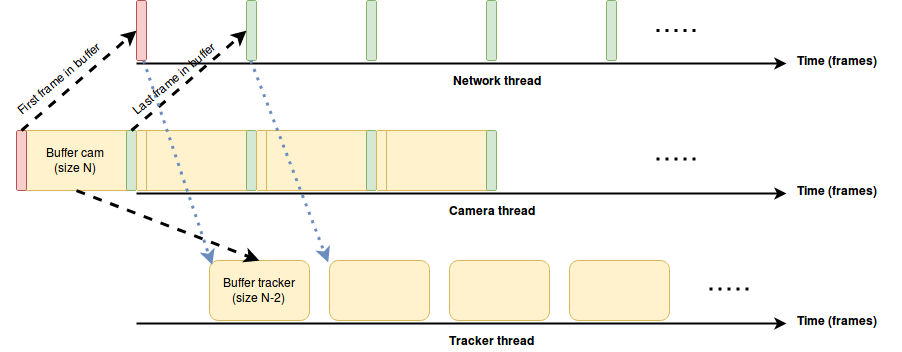
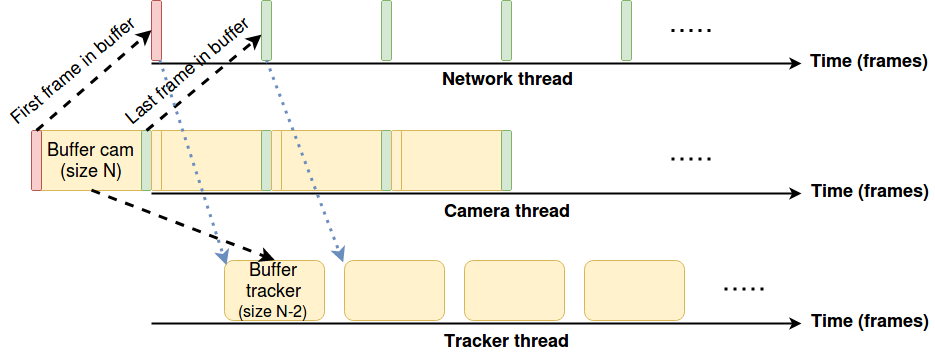
Changed: chapter4 feedback

diff --git a/latex/4_dl_object_tracker.tex b/latex/4_dl_object_tracker.tex
@@ -1,20 +1,20 @@
 \chapter{Multiobject tracking using deep learning and tracking by detection}
-In this chapter, the solution obtained for solving the multiobject tracking problem using deep learning and tracking-by-detection is explained.
+In this chapter, the solution developed for solving the multiobject visual tracking problem using deep learning and tracking-by-detection is explained.
 
-\section{Design overview}
-The main contribution of this work is to develop a tracking algorithm capable of tracking different types of objects using deep learning techniques. To achieve this task the selected tracking methodology is the tracking by detection. Our method combines detections coming from an object detection neural network with tracking techniques. With this, the idea is to give the final system a balance between speed and accuracy. The detections from the neural networks are usually slower than a pure tracking but more accuracted whereas the tracker results are often quickly obtained but they are slightly more inaccurated.\\
-The module architecture of the system is summarized in the following diagram (Figure \ref{fig:general}).
+\section{Design}
+The main contribution of this work is the development of a visual tracking algorithm capable of tracking different types of objects using deep learning techniques. To achieve this task the selected tracking methodology is the tracking by detection. Our method combines detections coming from an object detection neural network with classic visual tracking techniques. With this combination, the final system provides a balance between speed and accuracy. The detections from the neural networks are usually slower than a pure tracking but more accurate and robust whereas the tracker results are often quick but slightly more inaccurate.\\
+A software application, named \textit{dl-objecttracker}, has been designed and developed which implements the proposed multiobject visual tracking algorithm. The module architecture of this application is summarized in the diagram of Figure \ref{fig:general}.
 \begin{figure}[H]
 \begin{center}
 \includegraphics[scale=0.4]{figures/general.png}
-\caption{modular architecture}
+\caption{Modular architecture of the dl-objecttracker application}
 \label{fig:general}
 \end{center}
 \end{figure}
 
-As it can be seen the system is built in a modularized way with different threads. There are 4 threads: Camera, GUI, Network and Tracker. All of them are going to be discussed more in deep on its respective sections of the chapter but the general workflow of the system is going to be explained here (Figure \ref{fig:update_cam}).\\
-First, the camera thread provides the images or frames to the rest of the threads, i.e.\ the input to the system. The output of the system can be provided using a mechanism of \textit{logging} of the results per frame or using the GUI. If the GUI is configured to show the graphical interface (\textit{on}), the results are shown on the screen. But if the graphical interface is not configured (\textit{off}) the results are saved in JPG files.\\ The core of the computing is divided in the Network thread and the Tracker thread. This Tracker has a buffer of frames of different size coming from the Camera to work on \textit{delayed real-time}. So, when the first frame is available it is given to the Network thread which starts doing the inference, i.e.\, it starts detecting objects. Meanwhile, the buffer is accumulating the incoming frames from the Camera until the detection from the Network comes.\\
-When the detection is available, the Tracker thread starts the tracking of the detected objects in the buffer of frames. The last frame in the buffer is used to feed again the Network allowing for a synchronism between the detections and the tracking in the frames. This temporal process can be observed more clearly in the Figure \ref{fig:buffer}.
+As it can be seen the system is built in a modularized way with different threads. There are four threads: Camera, GUI, Network and Tracker. All of them are going to be discussed more in depth on its corresponding sections of this chapter but the general workflow of the system is going to be explained here (Figure \ref{fig:update_cam}).\\
+First, the camera thread provides the images or frames to the rest of the threads, i.e.\ it is in charge of the input to the system. The output of the system can be provided using a mechanism of \textit{logging} of the results per frame or using the GUI. If the GUI is configured to show the graphical interface (\textit{on}), the results are shown on the screen. But if the graphical interface is not configured (\textit{off}) the results are saved in JPG files.\\ The core of the computing is divided into the Network thread and the Tracker thread. This Tracker has a buffer of frames of different size coming from the Camera to work on \textit{delayed real-time}. So, when the first frame is available it is given to the Network thread which starts doing the inference, i.e.\, it starts detecting objects. Meanwhile, the buffer is accumulating the incoming frames from the Camera until the detection from the Network comes.\\
+When the neural detection is available, the Tracker thread starts the tracking of the detected objects inside the buffer of frames. The last frame in the buffer is used to feed again the Network allowing for a synchronism between the neural detections and the tracking in the frames. This timing can be observed more clearly in the Figure \ref{fig:buffer}.
 \begin{figure}[H]
 \begin{center}
 \includegraphics[scale=0.4]{figures/buffer.png}
@@ -22,61 +22,61 @@ When the detection is available, the Tracker thread starts the tracking of the d
 \label{fig:buffer}
 \end{center}
 \end{figure}
-It can be seen that given a complete buffer in Camera of size \textit{N}, the first frame is assigned to the Network and, when this frame is processed, a buffer of size \textit{N-2} is assigned to the Tracker to be processed. The last frame of the given buffer is passed to the Network again. This iterative mechanism continues in time ensuring that no frames are lost. After the first iteration, the length of the size passed to the Tracker is \textit{N-1}. The application has always a delay in frames of 1 buffer (\textit{delayed real-time}).
-\\As commented before, the buffer changes its size in every iteration but we can not allow the buffer to increase or decrease this size in an uncontrolled way because that will end blocking the system. If the buffer is too big, the tracking will take more time and the neural network will finish before the tracking is done. This is, the Network is underused. In the other side, if the buffer is too small the Tracker will end its work before the inference is done in the Network so the Tracker will have to wait much more time to the Network to finish (Tracker underused). For these reasons a balance is needed.\\
-The neural network inference time is approximately the same time so this time is taken as fixed. Then, the only part of this processing core where we can change is on the Tracker side. The obtained solution consists of a Tracker which constantly measures its frame rate (FPS) allowing it to slow down or speed up depending on this measurement.\\
+It can be seen that given a complete buffer in Camera of size \textit{N}, the first frame is assigned to the Network and, when this frame is processed, a buffer of size \textit{N-2} is assigned to the Tracker to be processed. The last frame of the given buffer is passed to the Network again. This iterative mechanism continues in time ensuring that no frame is lost or ignored while the neural processing takes place at its own pace, which can be much slower than the input frame rate. After the first iteration, the length of the size passed to the Tracker is \textit{N-1}. The application has always a delay in output frames of 1 buffer (\textit{delayed real-time}).
+\\As commented before, the buffer changes its size in every iteration but we can not allow the buffer to increase or decrease this size in an uncontrolled way because that will end blocking the application. If the buffer is too big, the tracking will take more time and the neural network will finish before the tracking is done. This is, the Network is underused. In the other side, if the buffer is too small the Tracker will end its work before the inference is done in the Network so the Tracker will have to wait much more time to the Network to finish (Tracker underused). For these reasons a balance is needed.\\
+The neural network inference time is approximately always the same so this time is taken as reference. Then, the only part of this processing core where we can change is on the Tracker side. The obtained solution consists of a Tracker which constantly measures its frame rate (FPS) allowing it to slow down or speed up depending on the Tracker processing speed.\\
 Once all the frames have been processed the Network and Tracker thread stop. After that, the results are logged into the YML files (a file for each frame) and the user can close the application.\\
-The general behavior of the application when running video sequences or raw frames was presented. Nevertheless, it can also handle live stream videos coming from local cameras connected. In this case, the logging of the results is not done but the tracking by detection scheme is the same.\\
+The general behavior of the application when running video sequences or raw frames was presented. Nevertheless, it can also handle live stream videos coming from local cameras connected. In this case, the logging of the results is not performed but the tracking by detection scheme is the same.\\
 The ``main" is done in the \texttt{update} function of the Camera which is continuously called by the Camera thread. As the system architecture is based in multiple threads, the synchronism between them is crucial. Because of this, the control of the application is done taking into account the synchronism between all the threads, their internal status and variables.
 \begin{figure}[H]
 \begin{center}
-\includegraphics[scale=0.3]{figures/update_camera.png}
+\includegraphics[scale=0.33]{figures/update_camera.png}
 \caption{The control flow}
 \label{fig:update_cam}
 \end{center}
 \end{figure} 
 
-As commented in the chapter 2, the application is configurable using an YML file (\textit{objecttracker.yml}). For the instructions on how to run the application please refer to the wiki of the project (see \ref{Methodology}).
-\\In the next sections, the implementation of each thread of the system is explained, including the available configuration modifications.\\
+The application is configurable using an YML file (\textit{objecttracker.yml}). For the instructions on how to run the application please refer to the wiki of the project (see \ref{Methodology}).
+\\In the next sections the implementation of each thread of the system is explained, including the available configuration modifications.\\
 
-\section{Video source}
-The Camera module provides the input images to the rest of the system. This images can be obtained using four different sources:
+\section{Video source module}
+The Camera module provides the input images to the rest of the system. These images can be obtained using four different sources:
 \begin{itemize}
     \item \textbf{Local camera (with OpenCV)}: the Camera can read from a local camera using the OpenCV routine \texttt{VideoCapture} indicating the device number of the camera.
-    \item \textbf{Local camera (with ROS)}: the Camera can use ROS to read from the camera device. In order to do so, the user needs to launch a terminal and type \texttt{roslaunch usb\_cam.launch}. This will publish a ROS topic \texttt{/usb\_cam/image\_raw} that can be subscribed by the Camera module and it will start reading frames from the device. For more information about the launching process please refer to my wiki (\ref{using_ros}).
-    \item \textbf{Local video}: to read from a local video it is also used the OpenCV routine \texttt{VideoCapture} but indicating the video path.
-\item \textbf{Local images}: similarly the local images path needs to be passed to \texttt{VideoCapture}. This source is very useful because most of the datasets are provided as sequences of frames instead of videos. And it can avoid problems such as creating sequences of videos with the wrong duration or frame rate.
+    \item \textbf{Local camera (with ROS)}: the Camera can use ROS to read from the camera device. In order to do so, the user needs to launch a terminal and type \texttt{roslaunch usb\_cam.launch}. This will publish a ROS topic \texttt{/usb\_cam/image\_raw} that can be subscribed by the Camera module and it will start reading frames from the device. For more information about the launching process please refer to the wiki of the project\footnote{\href{https://jderobot.org/Arodriguez-tfm\#Week_24:_Introducing_ROS}{Wiki: ROS}}.
+    \item \textbf{Local video}: to read from a local video the OpenCV routine \texttt{VideoCapture} is also used but indicating the video path in the configuration file.
+\item \textbf{Local image files}: the path containing all the image files is required to be passed to \texttt{VideoCapture}. This video source is very useful because most of the datasets are provided as sequences of frames instead of videos. And it can avoid problems such as creating sequences of videos with the wrong duration or frame rate.
 \end{itemize}
-The Camera thread source and options can be modified at the configuration file. The source is selected at \texttt{ObjectTracker->Source}. After that the user needs to indicate the device number \texttt{ObjectTracker->Local->DeviceNo} if using a local camera with OpenCV, the video path \texttt{ObjectTracker->Video->Path} if using a local video or the images path \texttt{ObjectTracker->Images->Path} when using local images.\\
+The Camera thread source and options can be modified at the configuration file. The source is selected at \texttt{ObjectTracker->Source}. After that the user is required to indicate the device number \texttt{ObjectTracker->Local->DeviceNo} if using a local camera with OpenCV, the video path \texttt{ObjectTracker->Video->Path} if using a local video or the images path \texttt{ObjectTracker->Images->Path} when using local image files.\\
 The user needs to modify the \texttt{usb\_cam.launch} to change the Camera configuration when using ROS.\\
-Before being sent to other threads the image is rescaled according to the neural network input size. It continues all the process with this size. When the final results are obtained this is taken into account to rescale the coordinates of the detections or trackers with respect to the original image size.\\
-Apart from providing images the Camera thread also controls the flow of the application. This is done in this way because the application offers the option of not having GUI. In the first versions of the project the control of the application (the ``main") was implemented in the GUI thread but when the no-GUI option was added this was moved to the Camera thread.\\
+Before being sent to other threads the image is rescaled according to the neural network input size. It continues all the process with this standard size. When the final results are obtained this scaling is taken into account to rescale again the coordinates of the detections or trackers with respect to the original image size.\\
+Apart from providing images the Camera thread also controls the flow of the application. It has been implemented in this way because the application offers the option of not having GUI. In the first versions of the project the control of the application (the ``main") was implemented in the GUI thread but when the no-GUI option was added this was moved to the Camera thread.\\
 
-\section{GUI}
-The GUI module provides the interface with the user and, as commented before, is optional. It was implemented using the tools provided by PyQt5, in concrete with the packages \textit{QtGui, QtCore} and \textit{QtWidgets}.\\
-The graphical interface has four windows and two buttons. The top-left window shows the input frames in real-time while the top-right one shows the final results. The intermediate results obtained from the Network and the Tracker will be provided at the bottom. The application with GUI has two modes with its respective buttons: ``run continuous" and ``run now". In the first one, the application runs continuously until it finishes the process (the process finishes depending on the image source). In the second one, the user can push the \textit{Run now} button to make the Network detect on the current frame and continue the tracking from that frame towards.
+\section{GUI module}
+The GUI module provides the interface with the human user and, as commented before, is optional. It was implemented using the tools provided by PyQt5, in particular with the packages \textit{QtGui, QtCore} and \textit{QtWidgets}.\\
+The graphical interface has four windows and two buttons. The top-left window shows the input frames in real-time while the top-right one shows the final results. The intermediate results obtained from the Network and the Tracker will be provided at the bottom part of the display. The application with GUI has two modes with its respective buttons: ``run continuous" and ``run now". In the first one, the application runs continuously until it finishes the processing (the program finishes depending on the image source). In the second one, the user can push the \textit{Run now} button to make a single Network detection on the current frame and to continue the tracking from that frame onward.
 \begin{figure}[H]
 \begin{center}
-\includegraphics[scale=0.3]{figures/gui.png}
-\caption{The graphical user interface}
+\includegraphics[scale=0.35]{figures/gui.png}
+\caption{The graphical user interface of the dl-objecttracker application}
 \label{fig:gui}
 \end{center}
 \end{figure} 
-\section{Neural Network}\label{neural_networks}
-The Network module is tasked with the object detections in the images which are feeding the Tracker on every iteration. It supports Tensorflow and Keras object detection models. The Tensorflow models can be obtained from the Tensorflow detection model zoo\footnote{\href {https://github.com/tensorflow/models/blob/master/research/object_detection/g3doc/detection_model_zoo.md}{Tensorflow detection model zoo}} and include SSD and R-CNN detectors. The Keras models are limited to SSD architectures and it can be obtained from this set\footnote{\href {https://github.com/pierluigiferrari/ssd_keras#download-the-original-trained-model-weights}{Keras models}}.\\
-The datasets on which the model was trained need to be specified to assign the labels to the objects. The supported labels include the VOC, COCO, KITTI, OID and PET datasets. As it ocurred with the Camera module, the Network module has configurable options available in \textit{objecttracker.yml}:
+\section{Neural Network module}\label{neural_networks}
+The Network module is tasked with the object detections in the images, which feed the Tracker on every iteration. It supports Tensorflow and Keras object detection models. The Tensorflow models can be obtained from the Tensorflow detection model zoo\footnote{\href {https://github.com/tensorflow/models/blob/master/research/object_detection/g3doc/detection_model_zoo.md}{Tensorflow detection model zoo}} and include SSD and R-CNN detectors. The Keras models are limited to SSD architectures and it can be obtained from this set\footnote{\href {https://github.com/pierluigiferrari/ssd_keras#download-the-original-trained-model-weights}{Keras models}}.\\
+The datasets on which the model was trained need to be specified to assign the labels to the objects. The supported labels include the VOC, COCO, KITTI, OID and PET datasets.\\ As it ocurred with the Camera module, the Network module has configurable options available in \textit{objecttracker.yml}:
 \begin{itemize}
     \item \texttt{Framework}: Keras or Tensorflow
     \item \texttt{Model}: the model file
     \item \texttt{Dataset}: VOC/COCO/KITTI/OID/PET
-    \item \texttt{Input size}: this input size can be modified depending on the selected model. Some models does not allow to change the input image size
+    \item \texttt{Input size}: this input size can be modified depending on the selected model. Some models do not allow to change the input image size
     \item \texttt{Confidence}: the confidence threshold for the detections obtained. If a detection obtains a confidence value below that detection is discarded
 \end{itemize}
 The Network thread basically receives an image (previously resized) and performs the inference. As a result it outputs the detections obtained in the image (if any) and it draws these detections in form of bounding boxes containing also the label and the confidence value.\\
 The logging of the Network and Tracker results are optional and it can be changed at the YML configuration file in \texttt{ObjectTracker->Logger->Status}. These results are logged in the \texttt{logNetwork} and \texttt{logTracker} functions respectively.\\
 
 \subsection{Tensorflow models} \label{tf_models}
-These models are obtained from the Tensorflow detection model zoo which provides models for inference out-of-the-box, i.e.\ to be directly used. From the models available only some of them were tested for its use in the project. The pre-trained models used were trained on the COCO dataset because the classes available in this dataset were considered enough for the type of objects that can be seen in the tracking sequences used. In the next table, the Tensorflow models performance can be seen:
+These models are obtained from the Tensorflow detection model zoo which provides models for inference out-of-the-box, i.e.\ to be directly used. Among the available models only some of them were tested for its use in the project. The pre-trained models used were trained on the COCO dataset because the available classes in this dataset were considered enough for the type of objects that can be seen in the tracking sequences used.\\ In the table \ref{tab:tf_models}, the Tensorflow models performance can be seen:
 \begin{table}[H]
 \begin{center}
 \begin{tabular}{|c|c|c|}
@@ -87,16 +87,17 @@ Model name                                 & Speed (FPS) & COCO mAP \\ \hline
 \textbf{mask\_rcnn\_inception\_v2\_coco}   & 13         & 25       \\ \hline
 \end{tabular}
 \end{center}
-\caption{Tensorflow models performance (from \href{https://github.com/tensorflow/models/blob/master/research/object_detection/g3doc/detection_model_zoo.md#coco-trained-models}{Tensorflow detection model zoo}). Note: the COCO mAP numbers here are evaluated on COCO 14 minival set using the \href{http://cocodataset.org/#detection-eval}{MSCOCO evaluation protocol}}
+\caption{Tensorflow models performance (from \href{https://github.com/tensorflow/models/blob/master/research/object_detection/g3doc/detection_model_zoo.md#coco-trained-models}{Tensorflow detection model zoo})}
+\label{tab:tf_models}
 \end{table}
-The reported running time in ms is done for 600x600 images (including all pre and post-processing). The AP scores are averaged over multiple Intersection over Union (IoU) values as the MSCOCO evaluation protocol indicates. As the authors say, ``these timings depend highly on one's specific hardware configuration (performed using an Nvidia GeForce GTX TITAN X card) and should be treated more as relative timings in many cases". However, some characteristics of each model can be extracted in terms of speed and accuracy. As expected, the R-CNN models achieve better accuracy while performing a little slower with respect to SSD.
+The COCO mAP numbers here are evaluated on COCO 14 minival set using the \href{http://cocodataset.org/#detection-eval}{MSCOCO evaluation protocol}. The reported running time in ms is measured for 600x600 images (including all pre and post-processing). The AP scores are averaged over multiple Intersection over Union (IoU) values as the MSCOCO evaluation protocol indicates. As the authors say, ``these timings depend highly on one's specific hardware configuration (performed using an Nvidia GeForce GTX TITAN X card) and should be treated more as relative timings in many cases". However, some characteristics of each model can be extracted in terms of speed and accuracy. As expected, the R-CNN models achieve better accuracy while performing a little slower with respect to SSD.
 
 \subsubsection{SSD MobileNetV2}
-This SSD implementation uses MobileNetV2 as backbone. As commented in \ref{mobilenet}, MobileNetV2 is a network proposed to work on mobile devices, this can be interesting to the project because of the hardware limits (it needs to work on CPU only).
+This SSD implementation uses MobileNetV2 as backbone. As commented in section \ref{mobilenet}, MobileNetV2 is a network proposed to work on mobile devices, this can be interesting to the project because of the hardware limits (it needs to work on CPU only).
 \subsubsection{Faster R-CNN InceptionV2}
-This region-based model was discussed in \ref{mobilenet}. The implementation uses InceptionV2 \cite{szegedy2016rethinking} as the feature extractor. This backbone follows the idea of its predecesor (InceptionV1) and adds two main ideas: reduce the representational bottleneck and use smart factorization methods. Refering to the first one, the intuition is that neural networks usually perform better when the convolutions do not alter the dimensions of the input in a drastical way (may cause loss of information). To solve this problem they expand the inception module making it wider (instead of deeper). Apart from that, the convolutions are made more efficient in terms of computational complexity. The authors propose factorizing the 5x5 convolution into two 3x3 convolution operations making it 2,78 times faster, among other improvements.
+This region-based model was discussed in section \ref{mobilenet}. The implementation uses InceptionV2 \cite{szegedy2016rethinking} as the feature extractor. This backbone follows the idea of its predecesor (InceptionV1) and adds two main ideas: reduce the representational bottleneck and use smart factorization methods. Refering to the first one, the intuition is that neural networks usually perform better when the convolutions do not alter the dimensions of the input in a drastical way (may cause loss of information). To solve this problem they expand the inception module making it wider (instead of deeper). Apart from that, the convolutions are made more efficient in terms of computational complexity. The authors propose factorizing the 5x5 convolution into two 3x3 convolution operations making it 2,78 times faster, among other improvements.
 \subsubsection{Mask R-CNN InceptionV2}
-This state-of-the-art instance segmentation network is used as object detection network because it offers the bounding boxes locations, apart from the instance masks (Figure \ref{fig:maskrcnn_tests}). The implementation selected also makes use of InceptionV2 as backbone.
+This state-of-the-art instance segmentation network is used as object detection network because it offers the bounding boxes locations, apart from the instance masks (Figure \ref{fig:maskrcnn_tests}). The selected implementation also makes use of InceptionV2 as backbone.
 \begin{figure}[H]
 \begin{center}
 \includegraphics[scale=0.5]{figures/maskrcnn_first_tests.png}
@@ -105,7 +106,7 @@ This state-of-the-art instance segmentation network is used as object detection 
 \end{center}
 \end{figure} 
 \subsection{Keras models} \label{keras_models}
-The Keras network is a Keras port of the SSD model architecture introduced by Wei Liu et al. in \cite{liu2016ssd} from SSD-Keras\footnote{\href{https://github.com/pierluigiferrari/ssd_keras}{SSD-Keras}}. The repository offers pre-trained models and allows the model training from scratch. The base network architecture used is VGG (see \ref{mobilenet}). The pre-trained models used were trained on the PASCAL VOC dataset. The pre-trained models available included COCO and ILSVRC datasets but PASCAL was selected because COCO dataset was already used in the previous SSD model in Tensorflow. In the next table, it can be seen the author reported performance:
+The Keras network is a Keras port of the SSD model architecture introduced by Wei Liu et al. in \cite{liu2016ssd} from SSD-Keras\footnote{\href{https://github.com/pierluigiferrari/ssd_keras}{SSD-Keras}}. The repository offers pre-trained models and allows the model training from scratch. The base network architecture used is VGG (see section \ref{mobilenet}). The pre-trained models used were trained on the PASCAL VOC dataset. The pre-trained models available included COCO and ILSVRC datasets but PASCAL was selected because COCO dataset was already used in the previous SSD model in Tensorflow. In the next table, it can be seen the author reported performance \cite{ssdkerasperf}:
 \begin{table}[H]
 \begin{center}
 \begin{tabular}{|c|c|c|}
@@ -115,14 +116,13 @@ Model name               & Speed (FPS) & VOC2007 test mAP @ 0,5 \\ \hline
 \textbf{SSD512\_VOC0712} & 20          & 79,8                   \\ \hline
 \end{tabular}
 \end{center}
-\caption{Keras models performance (from \href{https://github.com/pierluigiferrari/ssd_keras#performance}{SSD-Keras performance}). Evaluated in the official Pascal VOC 2012 test server using an NVIDIA GeForce GTX 1070 mobile.}
+\caption{Keras models performance. Evaluated in the official Pascal VOC 2012 test server using an NVIDIA GeForce GTX 1070 mobile.}
 \end{table}
-The author affirms that the implementation performs slightly better than the original SSD implementation in Caffe\footnote{\href{https://github.com/weiliu89/caffe/tree/ssd}{SSD-Caffe}}.
+The authors claim that their implementation performs slightly better than the original SSD implementation in Caffe\footnote{\href{https://github.com/weiliu89/caffe/tree/ssd}{SSD-Caffe}}.
 
-\section{Tracker}\label{tracker_algorithms}
-The Tracker module is the core of the project and therefore it is going to be explained more in deep.\\
-As previously commented, the Tracker receives an input detection coming from the Network module and performs the multiobject tracking over a buffer of variable size following a tracking by detection scheme. With this hybrid tracker it is pretended to show the advantages of the tracking by detection with deep learning over a pure neural network tracking or a classic feature tracking.\\
-The tracker can work in three operating regimes: \textit{slow, normal} and \textit{fast}. The calculation of this regime is performed using an internal buffer of FPS rates of size 3. The length selected is due to the fact that the tracker needs to respond quickly to changes in its velocity avoiding slowing down or speeding up in an excessive way. The tracker speed calculation is explained in Algorithm \ref{tracker_speed}. Three frame rate thresholds are established to distinguish between a tracker which is behaving in a ``normal way" or a slower or a faster processing time. If the tracker is performing slower than normal the next three frames that needed to be tracked are discarded from the buffer in the \texttt{imageToTrack} function. In the other hand, if the tracker is going too fast it is slowed down in \texttt{getOutputImage} by waiting some frames to return the image to be output. With this mechanism the buffer does not increase or decrease too much in size allowing a more stable behavior and a good synchronization between the threads.
+\section{Tracker module}\label{tracker_algorithms}
+The Tracker module is the core of the project and therefore it is going to be explained more in depth. As previously commented, the Tracker receives an input detection coming from the Network module and performs the multiobject visual tracking over a frame buffer of variable size following a tracking by detection scheme. This hybrid tracker it is intended to show the advantages of the tracking by detection with deep learning over a pure neural network tracking or a pure classic feature tracking.\\
+The tracker can work in three operating regimes: \textit{slow, normal} and \textit{fast}. The calculation of this regime is performed using an internal buffer of FPS rates of size 3. The length selected is due to the fact that the tracker is required to respond quickly to changes in its velocity avoiding slowing down or speeding up in an excessive way. The tracker speed calculation is explained in Algorithm \ref{tracker_speed}. Three frame rate thresholds are established to distinguish between a tracker which is behaving in a ``normal way" or a slower or a faster processing time.\\ If the tracker is performing slower than normal the next three frames that are to be tracked are discarded from the buffer in the \texttt{imageToTrack} function. In the other hand, if the tracker is going too fast it is slowed down in \texttt{getOutputImage} by waiting some frames to return the image to be output.\\ With this mechanism the buffer does not increase or decrease too much in size allowing a more stable behavior and a good synchronization between the threads. This dynamic calculation allows the tracking to behave differently depending on the operating regime in which it is on each instant. However, it will be seen in the next chapter that this regime is very dependent on the tracker that is being used and its own performance.\\
 \begin{algorithmic}[H]
 \begin{algorithm}
 \State \textbf{Inputs:} averageFPS, lastFPSBuffer, trackerSlow, trackerFast, counterSlow, counterFast
@@ -146,27 +146,24 @@ The tracker can work in three operating regimes: \textit{slow, normal} and \text
 \end{algorithm}
 \end{algorithmic}
 
-This dynamic calculation allows the tracking to behave differently depending on the operating regime in which it is on each instant. However, it will be seen in the next chapter that this regime is very depending on the tracker that is being used and its own speed performance.\\
-
 \subsection{Confidence in tracking}\label{conf_in_tracking}
-To check if the obtained tracking is acceptable or not the confidence value is used. The two libraries available to perform the tracking offer this feature so it is used with small differences. OpenCV returns a boolean value to show the confidence in the tracking, then it is directly used to threshold the tracking results. In the case of dlib, it returns a numerical value. The dlib threshold value was established to 7 based on examples of other works and some experiments.\\
-The tracking will be performed using already built tracking implementations of two libraries: OpenCV and dlib. This will also allow for a good comparative between them that can lead us to select the preferred option for the tracking algorithm. In the next subsection, the tested tracker implementations are discussed.
-\subsection{OpenCV tracking}
-OpenCV is known for the great variety of algorithms for which it provides implemented solutions, one of them is tracking. This libraries are included in the OpenCV extra modules (\texttt{opencv contrib}).\\
-The tested trackers include \textit{BOOSTING, MIL, MEDIANFLOW, TLD, KCF, MOSSE} and \textit{CSRT} (in release order).
-\\
-The OpenCV trackers available in this project are now introduced:
+To check if the obtained tracking is acceptable or not the confidence value is used. The two libraries available to perform the tracking offer this feature so it is used with small differences. OpenCV returns a boolean value to show the confidence in the tracking, and that is directly used to threshold the tracking results. In the case of dlib, it returns a numerical value. The dlib threshold value was established to 7 based on examples of other works and some experiments.\\
+
+\subsection{OpenCV trackers}
+The tracking will be performed using several already built tracking implementations of two libraries: OpenCV and dlib. This will also allow for a good comparative between them that can lead us to select the preferred option for the tracking algorithm.\\
+OpenCV is known for the great variety of algorithms for which it provides implemented solutions, one of them is tracking. Tracking libraries are included in the OpenCV extra modules (\texttt{opencv contrib}).\\
+The tested OpenCV trackers include \textit{BOOSTING, MIL, MEDIANFLOW, TLD, KCF, MOSSE} and \textit{CSRT} (in release order). They are now introduced:
 \begin{itemize}
-\item BOOSTING \cite{grabner2006real}: based on an online version of AdaBoost, the tracker is trained at runtime with positive and negative examples of the object to track. An initial bounding box needs to be provided by the user or other object detection algorithm. The classifier looks over the pixel neighborhood of a previous location to find the new location. The classifier is constantly updated with this new positives.
+\item BOOSTING \cite{grabner2006real}: based on an online version of AdaBoost, the tracker is trained at runtime with positive and negative examples of the object to track. An initial bounding box needs to be provided by the user or other object detection algorithm. The classifier looks over the pixel neighborhood of a previous location to find the new location. The classifier is constantly updated with these new positives.
 \item MIL \cite{babenko2009visual}: the \textit{Multiple Instance Learning} algorithm tries to solve the problem of learning an adaptive appearance model for object tracking. To achieve this, the authors train a discriminative classifier online to separate the object to track from the background, i.e.\ positive and negative examples are extracted from the frame (Figure \ref{fig:mil}). Similarly to the Boosting algorithm, the model searches inside of the window of the old location. It obtains a probability map with most probably new location of the object and updates the tracker model.
 \begin{figure}[H]
 \begin{center}
-\includegraphics[scale=0.4]{figures/mil.png}
+\includegraphics[scale=0.5]{figures/mil.png}
 \caption{Updating a discriminative appearance model: (A) using a single positive image patch. (B) using several positive image patches. (C) using one positive bag of several image patches (from \cite{babenko2009visual})}
 \label{fig:mil}
 \end{center}
 \end{figure}
-\item MEDIANFLOW \cite{kalal2010forward}: the Median Flow algorithm introduced a novel method for tracking failure detection based on the Forward-Backward error. This  basically consists of perform the tracking forward and backward in time in a given frame and measure the discrepances between trajectories (see Figure \ref{fig:medianflow}). The authors affirm that this discrepances are highly correlated with real tracking failures.
+\item MEDIANFLOW \cite{kalal2010forward}: the Median Flow algorithm introduced a novel method for tracking failure detection based on the Forward-Backward error. This  basically consists of performing the tracking forward and backward in time in a given frame and measure the discrepances between trajectories (see Figure \ref{fig:medianflow}). The authors claim that these discrepances are highly correlated with real tracking failures.
 \begin{figure}[H]
 \begin{center}
 \includegraphics[scale=0.4]{figures/medianflow.png}
@@ -174,8 +171,8 @@ The OpenCV trackers available in this project are now introduced:
 \label{fig:medianflow}
 \end{center}
 \end{figure}    
-\item TLD \cite{kalal2011tracking}: in the original paper on which is based the implementation, the authors investigate the long-term object tracking and propose a novel framework that descompose this type of tracking into \textit{tracking, learning and detection} (TLD). The tracker based on Median Flow follows the object in every frame. The detector is composed by a patch variance module, followed by an ensemble classifier and finally a Nearest Neighbor classifier. The function of this detector is to correct the tracker if necessary. The learning step estimates the errors of the detector and updates it using a novel method called \textit{P-N learning}.
-\item KCF \cite{henriques2012exploiting}: the \textit{Kernelized Correlation Filter} is a tracking framework that utilizes properties of circulant matrix to enhance the processing speed. The authors observed that the translated and scaled patches used to train discriminative classifiers contain redundancies and the resulting data matrix from this patches is circulant. With kernel regression as classification method they derive the KCF tracking.
+\item TLD \cite{kalal2011tracking}: in the original paper on which is based the implementation, the authors investigate the long-term object tracking and propose a novel framework that descomposes this type of tracking into \textit{tracking, learning and detection} (TLD). The tracker based on Median Flow follows the object in every frame. The detector is composed by a patch variance module, followed by an ensemble classifier and finally a Nearest Neighbor classifier. The function of this detector is to correct the tracker if necessary. The learning step estimates the errors of the detector and updates it using a novel method called \textit{P-N learning}.
+\item KCF \cite{henriques2012exploiting}: the \textit{Kernelized Correlation Filter} is a tracking framework that utilizes properties of circulant matrix to enhance the processing speed. The authors observed that the translated and scaled patches used to train discriminative classifiers contain redundancies and the resulting data matrix from these patches is circulant. With kernel regression as classification method they derive the KCF tracking.
 \item MOSSE \cite{bolme2010visual}: correlation filters can track complex objects in common tracking scenarios that may include rotations, occlusions or other distractions at high frame rates. The \textit{Minimum Output Sum of Squared Error} filter is another type of correlation filter. Filter based trackers model the appearance of objects using filters trained in example images (Figure \ref{fig:mosse}). With a given initial target in the first frame the tracking and the filter training start to work together. The idea behind MOSSE is an optimization problem, given a set of training images $f_i$ and training outputs $g_i$, MOSSE finds a filter \textit{H} that minimizes the sum of squared error between the actual output of the convolution and the desired output of the convolution (see Formula \ref{eq:conv_mosse}).
 \begin{equation}
 \min_{H^*}\sum_{i}\left|F_i \odot H^* - G_i\right|^2
@@ -201,5 +198,5 @@ The OpenCV trackers available in this project are now introduced:
 \end{itemize}
 
 In the next chapter, some experiments are performed to put into practice the advantages and disadvantages of each OpenCV tracker. Furthermore, the dlib tracking will also be discussed allowing for a comparison between all the proposals and allowing us to select the best tracker option.
-\subsection{dlib tracking}
-In chapter 2, the dlib library was introduced as a set of independent software components that provide different utilities, one of them is tracking. The \texttt{dlib.correlation\_tracker} is going to be used for this project. As the name indicates, it is another implementation of a correlation filter for tracking which are widely used. This tool is an implementation of the method described in \cite{danelljan2014accurate}.\\ In the proposed solution, the authors are centered in solving the challenging problem of handling large scale variations in visual object tracking. They propose a method for a robust scale estimation in a tracking by detection framework, as it is the case in this project. To do so the learning of discriminative correlation filters is based on a scale pyramid representation.
+\subsection{dlib trackers}
+In chapter 2 the \texttt{dlib} library was introduced as a set of independent software components that provide different utilities, one of them is tracking. The \texttt{dlib.correlation\_tracker} is going to be used for this project. As its name indicates, it is another implementation of a correlation filter for tracking which has been widely used. This tool is an implementation of the method described in \cite{danelljan2014accurate}.\\ In the proposed solution, the authors are centered in solving the challenging problem of handling large scale variations in visual object tracking. They propose a method for a robust scale estimation in a tracking by detection framework, as it is the case in this project. To do so the learning of discriminative correlation filters is based on a scale pyramid representation.

diff --git a/latex/0_portada.tex b/latex/0_portada.tex
@@ -10,7 +10,7 @@
 		\fontsize{15.5}{14}\selectfont ESCUELA TÉCNICA SUPERIOR DE INGENIERÍA DE TELECOMUNICACIÓN
 		\vspace{13mm}
 		
-		\fontsize{14}{14}\selectfont MASTER OFICIAL EN VISIÓN ARTIFICIAL 
+		\fontsize{14}{14}\selectfont MÁSTER UNIVERSITARIO EN VISIÓN ARTIFICIAL 
 		
 		\vspace{70pt}
 		
